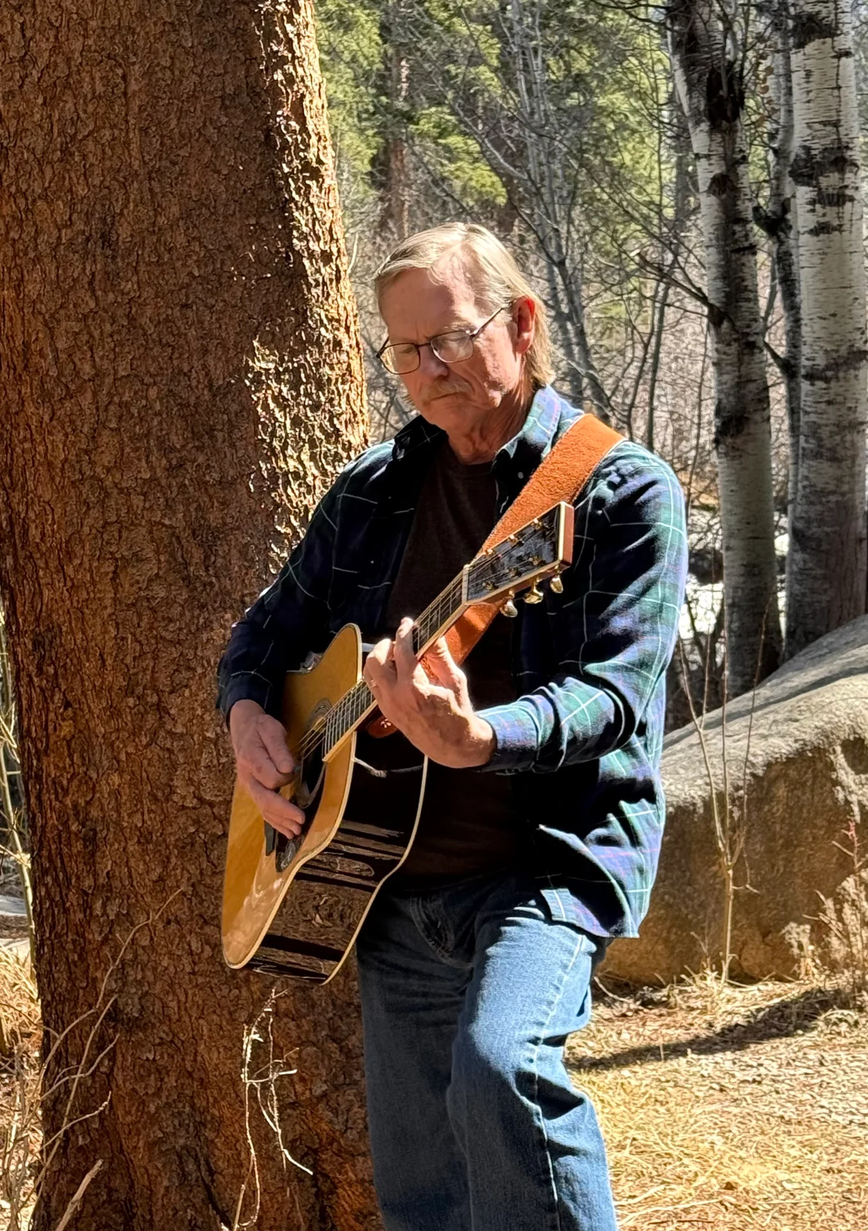
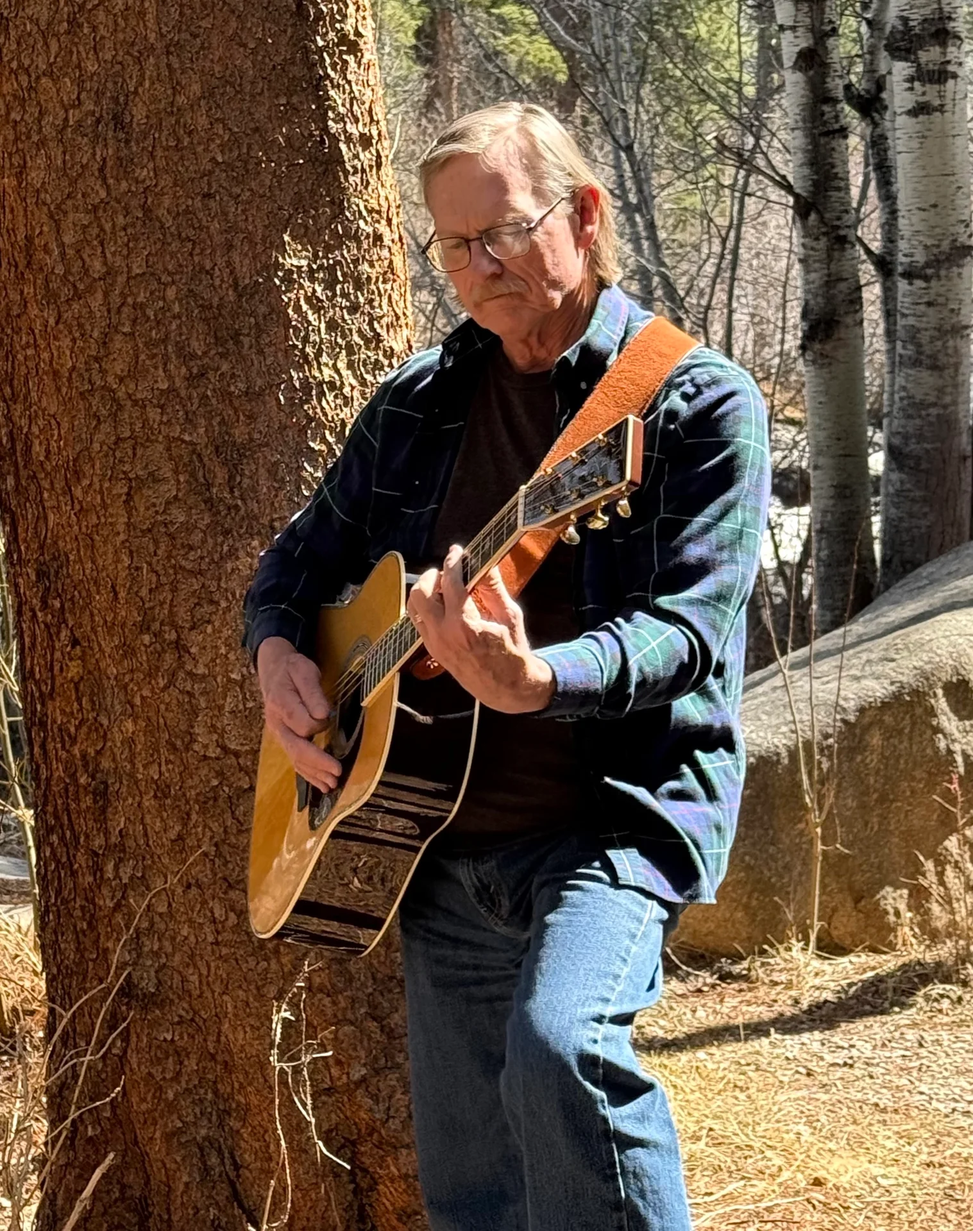
Enable AVIF hero image delivery to cut Lighthouse compression warning
Regenerates the optimized hero WebP from the current cropped source
photo (previous version was stale, generated before the crop) and
enables AVIF as a Next.js image format so browsers that support it get
~25-30% smaller downloads with automatic WebP fallback. Also fixes the
homepage JSON-LD image field, which still pointed at the old hero
photo.

diff --git a/src/app/(site)/page.tsx b/src/app/(site)/page.tsx
@@ -71,7 +71,7 @@ export default async function HomePage() {
     description: siteConfig.description,
     genre: siteConfig.genres,
     email: siteConfig.email,
-    image: "https://www.kelsokellymusic.com/images/kelso-performing-optimized.webp",
+    image: "https://www.kelsokellymusic.com/images/kelso-performing-in-trees-optimized.webp",
     sameAs: [siteConfig.socialLinks.facebook],
     location: {
       "@type": "Place",

diff --git a/src/components/ui/ParallaxHeroImage.tsx b/src/components/ui/ParallaxHeroImage.tsx
@@ -57,7 +57,7 @@ export function ParallaxHeroImage({ src, alt }: ParallaxHeroImageProps) {
           className="object-cover hero-image"
           style={{ objectPosition }}
           priority
-          quality={90}
+          quality={75}
         />
       </div>
       {/* Dark overlay for text readability */}

diff --git a/next.config.ts b/next.config.ts
@@ -2,6 +2,7 @@ import type { NextConfig } from "next";
 
 const nextConfig: NextConfig = {
   images: {
+    formats: ["image/avif", "image/webp"],
     remotePatterns: [
       {
         protocol: "https",
